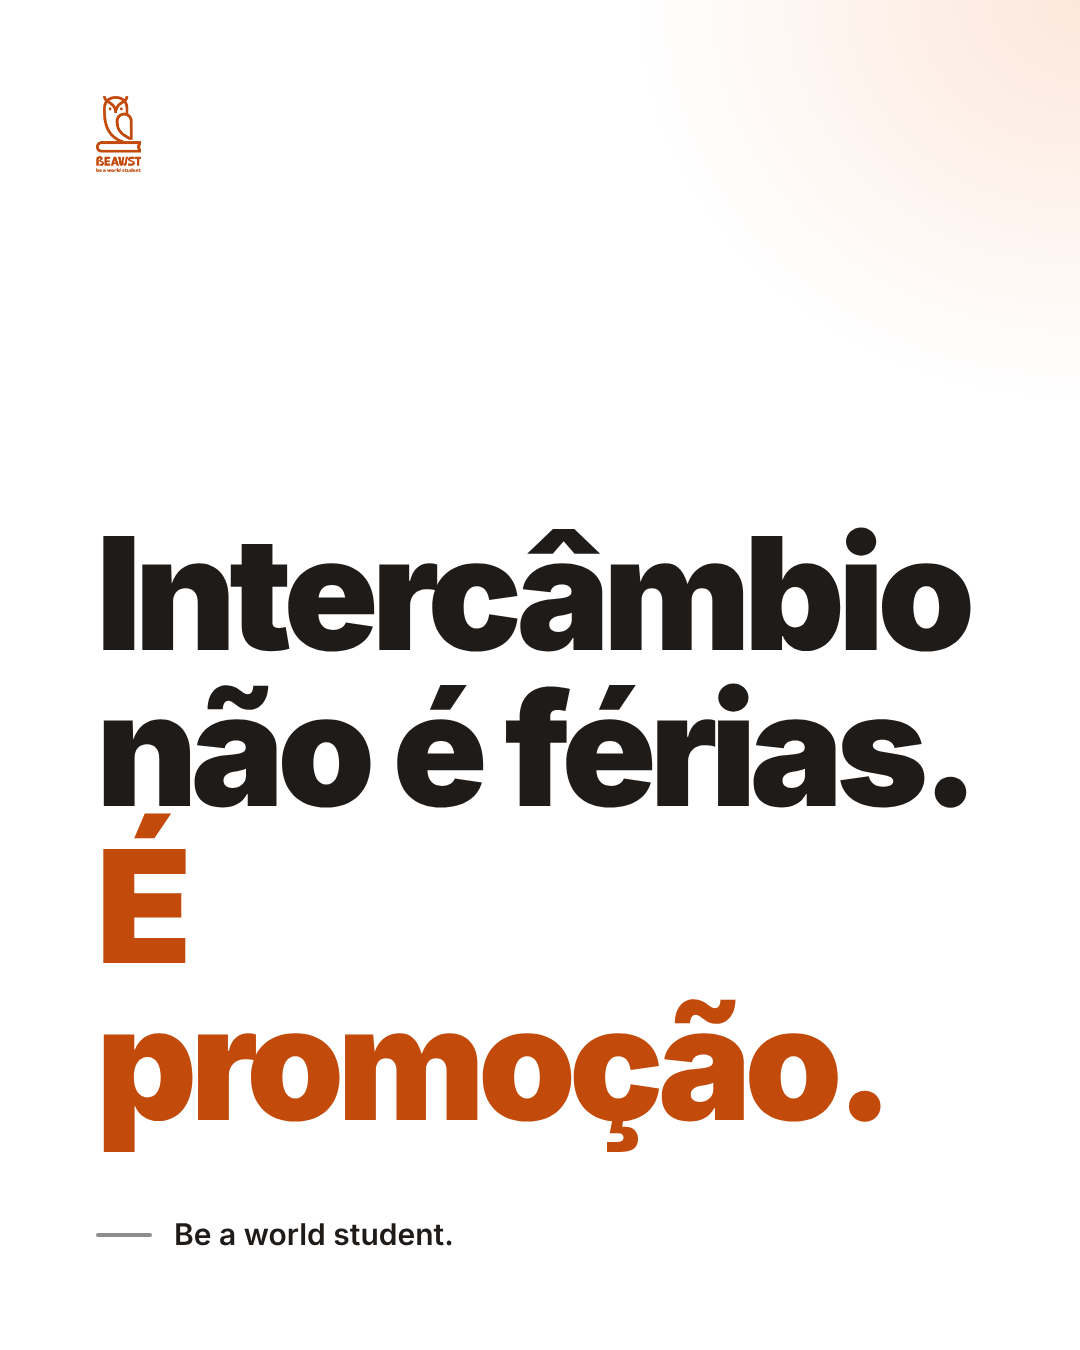
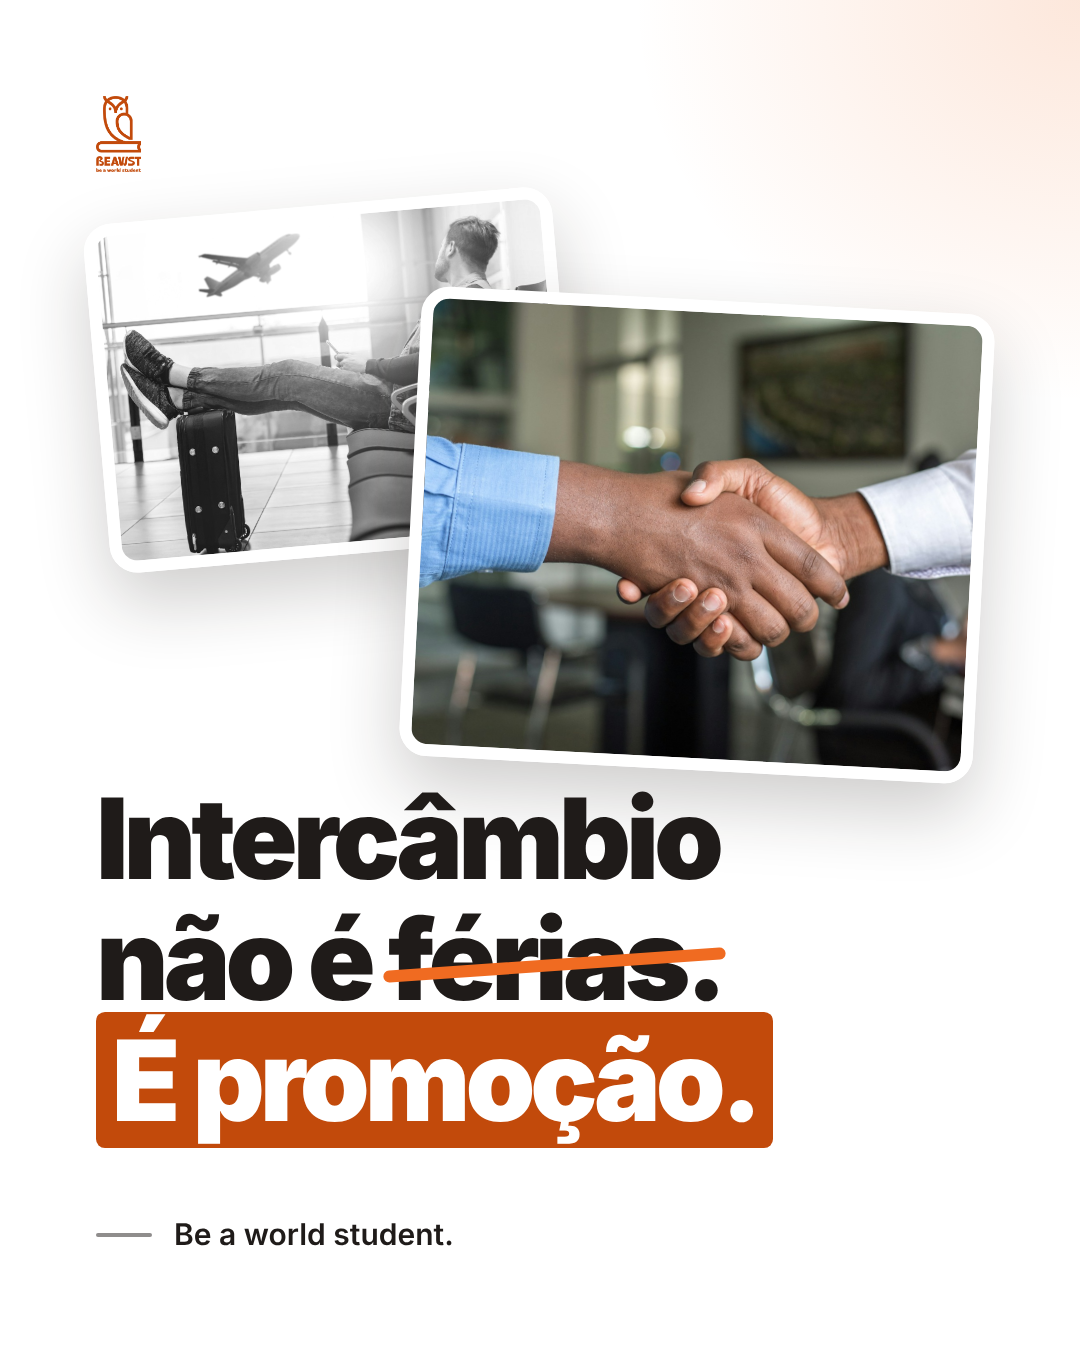
Arte 18/11: versão com fotos (férias x promoção)
Claude-Session: https://claude.ai/code/session_01KyHVk97BxwCKQz2piQjfor

diff --git a/beawst-artes-nov-dez/template.html b/beawst-artes-nov-dez/template.html
@@ -56,6 +56,12 @@ body{font-family:I,sans-serif;-webkit-font-smoothing:antialiased;--s:1}
 .swipe{display:flex;align-items:center;gap:14px;font-weight:700;font-size:24px;letter-spacing:.14em}
 .swipe i{display:block;width:70px;height:3px;background:currentColor;position:relative}
 .swipe i:after{content:"";position:absolute;right:0;top:-7px;width:14px;height:14px;border-top:3px solid currentColor;border-right:3px solid currentColor;transform:rotate(45deg)}
+.strike{position:relative;white-space:nowrap}
+.strike:after{content:"";position:absolute;left:-.04em;right:-.04em;top:50%;height:.11em;background:#F06B21;border-radius:.06em;transform:rotate(-4deg)}
+.mkem .h{line-height:1.08}
+.mkem em{background:#C24A0B;color:#fff;padding:0 .14em;border-radius:.08em;box-decoration-break:clone;-webkit-box-decoration-break:clone}
+.dcard{position:absolute;overflow:hidden;border-radius:28px;border:12px solid #fff;box-shadow:0 30px 70px rgba(31,27,25,.22)}
+.dcard img{width:100%;height:100%;object-fit:cover;display:block}
 .photo{flex:none;border-radius:32px;overflow:hidden;margin-bottom:56px}
 .photo img{width:100%;height:100%;object-fit:cover;display:block}
 /* capa de reel: foto ocupa a parte de cima da tela inteira */
@@ -72,7 +78,7 @@ const c = document.getElementById('c');
 document.body.style.width = W + 'px'; document.body.style.height = H + 'px';
 c.style.width = W + 'px'; c.style.height = H + 'px'; c.className = G.bg;
 const esc = s => s.replace(/&/g, '&amp;').replace(/</g, '&lt;');
-const mk = s => esc(s).replace(/\[\[(.+?)\]\]/g, '<em>$1</em>').replace(/\s*\|\s*/g, '<br>');
+const mk = s => esc(s).replace(/\[\[(.+?)\]\]/g, '<em>$1</em>').replace(/\{\{(.+?)\}\}/g, '<span class="strike">$1</span>').replace(/\s*\|\s*/g, '<br>');
 const logo = G.bg === 'light' ? 'logo-laranja.png' : 'logo-branco.png';
 const pager = P.tipo === 'carrossel' && idx > 0 ? `${String(idx + 1).padStart(2, '0')}/${String(total).padStart(2, '0')}` : '';
 let bg = '';
@@ -82,10 +88,12 @@ const L = G.layout;
 const SZ = {
   title: { h: 160, sign: 30 }, quote: { h: 124 }, cover: { h: 150, p: 44 }, text: { h: 108, p: 46, k: 34 },
   list: { h: 64, b: 70, span: 40 }, step: { n: 170, h: 96, p: 44 }, cta: { h: 100, p: 46, cta: 36 },
-  photo: { h: 96, p: 40, k: 32 }, reel: { h: 150 },
+  photo: { h: 96, p: 40, k: 32 }, reel: { h: 150 }, duo: { h: 112 },
 };
 const z = SZ[L], px = (v) => `calc(${v}px * var(--s))`;
 let body = '';
+if (L === 'duo') bg += `<div class="dcard" style="left:96px;top:205px;width:470px;height:350px;transform:rotate(-5deg);z-index:1"><img src="assets/${G.img}" style="filter:grayscale(1) contrast(.95) brightness(1.05);object-position:${G.imgPos || '50% 50%'}"></div>
+  <div class="dcard" style="left:410px;top:300px;width:574px;height:470px;transform:rotate(3deg);z-index:2"><img src="assets/${G.img2}" style="object-position:${G.img2Pos || '50% 50%'}"></div>`;
 if (L === 'photo' && G.img) body += `<div class="photo" style="height:${G.cover ? 520 : 470}px"><img src="assets/${G.img}" style="object-position:${G.imgPos || '50% 50%'}"></div>`;
 for (const key of Object.keys(G)) {
   const v = G[key];
@@ -100,7 +108,7 @@ let foot = '';
 if (G.sign) foot = `<div class="sign">${mk(G.sign)}</div>`;
 if (L === 'cover' || (G.cover && P.tipo === 'carrossel')) foot = `<span></span><div class="swipe">ARRASTE<i></i></div>`;
 const fTop = reel ? 285 : 0, fH = reel ? 1350 : 1350;
-c.innerHTML = `${bg}<div id="f" style="top:${fTop}px;height:${fH}px">
+c.innerHTML = `${bg}<div id="f" class="${G.markEm ? 'mkem' : ''}" style="top:${fTop}px;height:${fH}px;z-index:3">
   <div id="hd"><img src="assets/${logo}"><span id="pg">${pager}</span></div>
   <div id="m" class="${L === 'quote' || (reel && !G.img) ? 'center' : ''}">${body}</div>
   ${foot ? `<div id="ft">${foot}</div>` : ''}</div>`;
